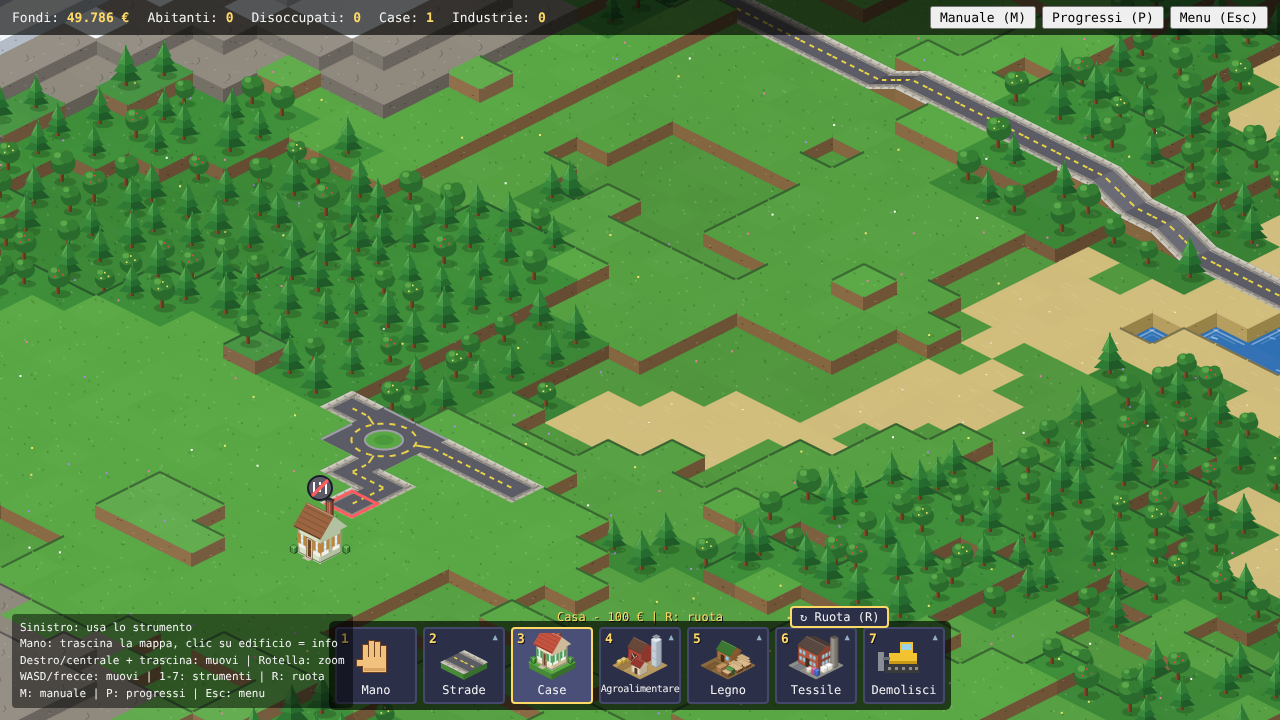
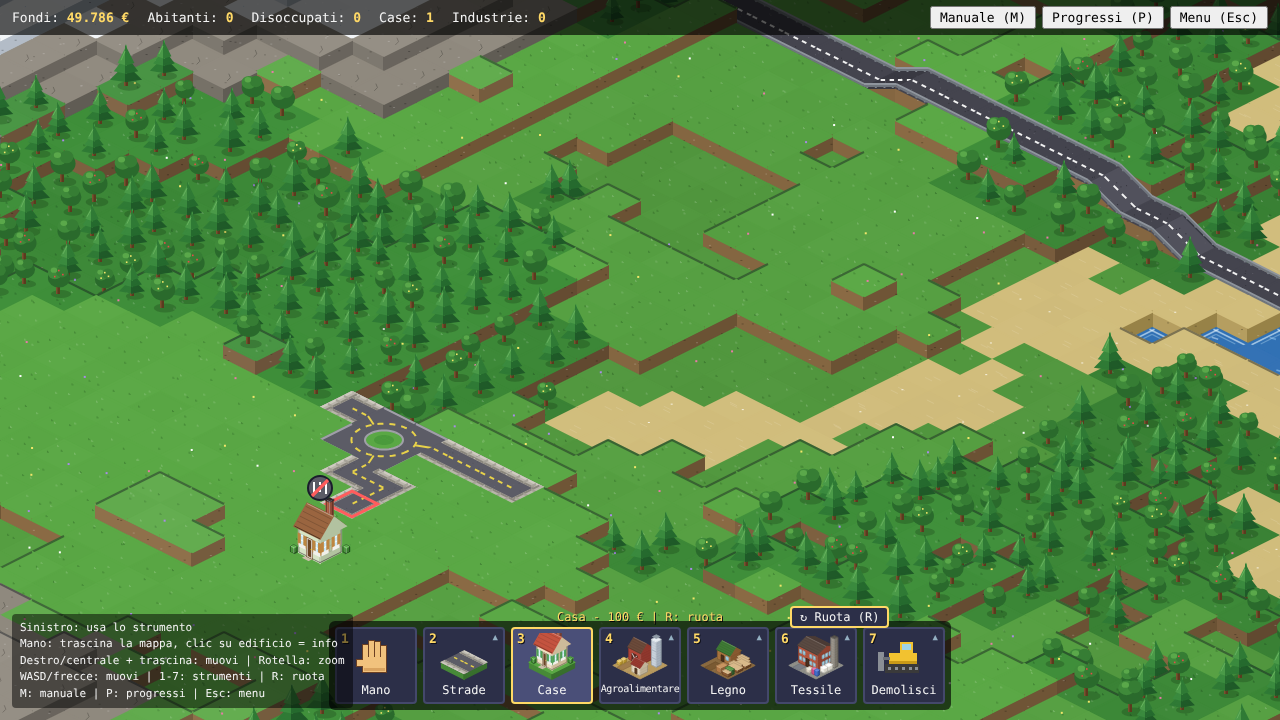
Furgoni: ordine giusto di muso e cassone, striscia dipinta, ruote più piccole; strada principale autostrada
Claude-Session: https://claude.ai/code/session_01EPii4HtPudbMHHXMoA5j75

Changed region(s): [[0.5625, 0.0, 1.0, 0.4278]]

diff --git a/js/vehicles.js b/js/vehicles.js
@@ -419,30 +419,40 @@ function drawVehicle(c, v) {
     const [sx, sy] = iso(0, 0, mx, my, h);
     c.fillStyle = 'rgba(0,0,0,0.2)'; c.beginPath(); c.ellipse(sx, sy + 0.5, (van ? 6 : 5), 2.4, 0, 0, Math.PI * 2); c.fill();
   }
-  // ruote: prima quelle lontane dallo schermo, poi la carrozzeria, poi le vicine
+  // ruote: piccole, appena fuori dalla carrozzeria; prima quelle lontane dallo schermo, poi la
+  // carrozzeria, poi le vicine
   const wheels = [];
-  for (const a of [-L + 0.06, L - 0.06]) for (const w of [-W + 0.01, W - 0.01]) wheels.push(R(a - 0.035, a + 0.035, w - 0.02, w + 0.02));
+  for (const a of [-L + 0.06, L - 0.06]) for (const w of [-W - 0.012, W - 0.004]) wheels.push(R(a - 0.026, a + 0.026, w, w + 0.016));
   const wheelCol = { l: '#2a2a30', r: '#1e1e22', t: '#3a3a40' };
   const far = rc => rc[0] + rc[1] < mx + my;
-  wheels.filter(far).forEach(rc => vbox(rc, 0, 2.4, wheelCol));
+  wheels.filter(far).forEach(rc => vbox(rc, 0, 2, wheelCol));
   const body = v.color || '#d94141', stripe = v.stripe || '#3fa34d';
-  let cabin;
   if (van) {
-    vbox(R(-L, L * 0.3, -W, W), 1, 8.5, { l: '#f2f2f2', r: '#cfd1d4', t: '#ffffff' });                // cassone
-    vbox(R(-L - 0.002, L * 0.3 + 0.002, -W - 0.002, W + 0.002), 4.5, 1.6, { l: stripe, r: shade(stripe, -0.2) });   // striscia
-    vbox(R(L * 0.3, L, -W, W), 1, 4, { l: stripe, r: shade(stripe, -0.25), t: shade(stripe, 0.1) });   // muso
-    cabin = { rc: R(L * 0.3, L * 0.8, -W * 0.92, W * 0.92), z: 5, hp: 3, top: shade(stripe, 0.15) };
+    // cassone dietro, muso con la cabina davanti. Se il muso guarda verso il fondo dello schermo
+    // (marcia verso -u o -v) sta dietro al cassone: va disegnato prima, altrimenti si vede attraverso
+    const cargo = () => {
+      const rc = R(-L, L * 0.3, -W, W);
+      vbox(rc, 1, 8.5, { l: '#f2f2f2', r: '#cfd1d4', t: '#ffffff' });
+      // striscia dipinta sulle due pareti che si vedono (senza coperchio, così non copre il cassone)
+      const P = (u, vv, z) => iso(0, 0, u, vv, h + z / STEP), [u0, v0, u1, v1] = rc;
+      poly(c, [P(u0, v1, 4.5), P(u1, v1, 4.5), P(u1, v1, 6.2), P(u0, v1, 6.2)], stripe);
+      poly(c, [P(u1, v1, 4.5), P(u1, v0, 4.5), P(u1, v0, 6.2), P(u1, v1, 6.2)], shade(stripe, -0.2));
+    };
+    const nose = () => {
+      vbox(R(L * 0.3, L, -W, W), 1, 4, { l: stripe, r: shade(stripe, -0.25), t: shade(stripe, 0.1) });
+      vbox(R(L * 0.3, L * 0.8, -W * 0.92, W * 0.92), 5, 3, { l: '#8fc8e2', r: '#6fa6c2', t: shade(stripe, 0.15) });   // cabina con i vetri
+    };
+    if (d === 1 || d === 2) { cargo(); nose(); } else { nose(); cargo(); }
   } else {
     vbox(R(-L, L, -W, W), 1, 3.6, { l: body, r: shade(body, -0.25), t: shade(body, 0.12) });             // carrozzeria
-    cabin = { rc: R(-L * 0.55, L * 0.35, -W * 0.86, W * 0.86), z: 4.6, hp: 3, top: shade(body, 0.2) };
+    vbox(R(-L * 0.55, L * 0.35, -W * 0.86, W * 0.86), 4.6, 3, { l: '#8fc8e2', r: '#6fa6c2', t: shade(body, 0.2) });   // abitacolo con i vetri
   }
-  vbox(cabin.rc, cabin.z, cabin.hp, { l: '#8fc8e2', r: '#6fa6c2', t: cabin.top });                   // abitacolo con i vetri
-  wheels.filter(rc => !far(rc)).forEach(rc => vbox(rc, 0, 2.4, wheelCol));
+  wheels.filter(rc => !far(rc)).forEach(rc => vbox(rc, 0, 2, wheelCol));
   if (!DETAIL) return;
   // fari: sul muso se guarda verso lo schermo (+u o +v), altrimenti luci rosse sul retro
   const front = d === 1 || d === 2, a = front ? L : -L, col = front ? '#fff3b0' : '#e83a3a';
-  for (const w of [-W * 0.62, W * 0.62]) {
-    const p = iso(0, 0, mx + f.dx * a + sd[0] * w, my + f.dy * a + sd[1] * w, h + 2.6 / STEP);
+  for (const w of [-W * 0.55, W * 0.55]) {
+    const p = iso(0, 0, mx + f.dx * a + sd[0] * w, my + f.dy * a + sd[1] * w, h + 3.2 / STEP);
     c.fillStyle = col; c.fillRect(p[0] - 0.5, p[1] - 0.5, 1, 0.8);
   }
 }

diff --git a/js/roadgen.js b/js/roadgen.js
@@ -1,3 +1,5 @@
+// La strada principale è un'autostrada (scelta dell'utente: le auto vanno più veloci)
+const MAIN_PATH = 'highway';
 // ---------- Strada principale ----------
 // Ogni mappa nuova ha una strada che arriva da un bordo, attraversa l'isola seguendo il
 // terreno ed esce dal bordo opposto. Sull'acqua passa su un ponte (dritto) con i pilastri;
@@ -118,7 +120,7 @@ function generateMainRoad() {
     const t = game.map[y][x];
     if (t.type === T.WATER) { t.type = T.SAND; t.elev = 1; }  // terrapieno (acqua sul bordo della mappa)
     if (t.type === T.FOREST) t.type = T.GRASS;
-    setPath(x, y, 'road');
+    setPath(x, y, MAIN_PATH);
     t.main = true;
   });
   for (const [x, y] of path) if (game.map[y][x].path) fillDips(x, y);
@@ -130,7 +132,7 @@ function generateMainRoad() {
     if (plan.ok) { buildBridge(plan, { free: true, main: true }); continue; }
     for (let k = i; k <= j; k++) {   // il ponte non va: terrapieno di sabbia come prima
       const [x, y] = path[k], t = game.map[y][x];
-      t.type = T.SAND; t.elev = 1; setPath(x, y, 'road'); t.main = true;
+      t.type = T.SAND; t.elev = 1; setPath(x, y, MAIN_PATH); t.main = true;
     }
     updateRoundabouts();
   }

diff --git a/tools/smoke-test.js b/tools/smoke-test.js
@@ -1224,6 +1224,18 @@ function check(cond, msg) {
     }
   }
 
+  // 43. la strada principale di una mappa nuova è un'autostrada (auto più veloci) e resta tale
+  const hw = await page.evaluate(() => {
+    clearVehicles(); __newGame(7, 128); unlockAll();
+    let main = 0, hwy = 0;
+    for (const row of game.map) for (const t of row) if (t.main && t.path) { main++; if (t.path === 'highway') hwy++; }
+    const e = game.entries[0], t = game.map[e.y][e.x];
+    game.convertRoads = true;
+    const keep = !!checkTool('road', e.x, e.y) && t.path === 'highway';
+    return { main, hwy, keep };
+  });
+  check(hw.main > 50 && hw.hwy === hw.main && hw.keep, `strada principale = autostrada (${hw.hwy}/${hw.main} tile), non si declassa`);
+
   check(errors.length === 0, 'nessun errore in console' + (errors.length ? ': ' + errors.join(' | ') : ''));
   await browser.close();
 })();

diff --git a/js/game.js b/js/game.js
@@ -410,6 +410,7 @@ function checkTool(tool, x, y) {
       if (netOf(t.path) !== 'road' || PATHS[tool].net !== 'road') return { msg: "C'è già " + (t.path === 'rail' ? 'un binario' : 'una strada') };
       if (game.convertRoads === false) return { silent: true };   // si passa sopra senza cambiarle
       if (t.main && (PATHS[tool].oneway || tool === 'dirt')) return { msg: 'La strada principale resta a doppio senso e asfaltata' };
+      if (t.main && t.path === 'highway' && tool !== 'highway') return { msg: "La strada principale resta un'autostrada" };
       return null;
     }
     if (bridgeOver(t) && deckMin(bridgeOver(t), t.bridge.i) < t.elev + BRIDGE.clearPath)

diff --git a/js/bridges.js b/js/bridges.js
@@ -176,7 +176,7 @@ function buildBridge(plan, opts) {
   for (const i of [0, b.n]) {   // le teste diventano strada se non lo sono già
     const p = plan.tiles[i], t = game.map[p.y][p.x];
     if (t.field) { t.field = false; t.farm = null; game.fields--; }
-    if (!t.path) { if (t.type === T.FOREST) t.type = T.GRASS; setPath(p.x, p.y, 'road'); game.roads++; if (opts.main) t.main = true; }
+    if (!t.path) { if (t.type === T.FOREST) t.type = T.GRASS; setPath(p.x, p.y, opts.main ? MAIN_PATH : 'road'); game.roads++; if (opts.main) t.main = true; }
   }
   for (let i = 1; i < b.n; i++) {
     const p = plan.tiles[i], t = game.map[p.y][p.x];

diff --git a/CLAUDE.md b/CLAUDE.md
@@ -30,6 +30,7 @@ Gioco city builder isometrico in stile retro, in JavaScript + Canvas 2D, impacch
 
 ## Livellamento e strada principale
 - `fillDips`: lungo una strada dritta, 1 o 2 tile più bassi tra due tile alla stessa quota vengono alzati (scelta dell'utente); con 3 o più bassi restano le rampe (discesa, tratto piano, salita).
+- La strada principale delle mappe nuove è un'autostrada (`MAIN_PATH` in roadgen.js, anche le teste del suo ponte; richiesta dell'utente: auto più veloci). Non si può declassare (`checkTool`); i salvataggi di prima restano com'erano.
 - `generateMainRoad` (in `newGame`): A* con stato (tile, direzione) e le stesse regole delle rampe (si sale solo dritti, dopo una discesa si va dritti); l'acqua diventa terrapieno di sabbia a quota 1; le curve costano di più per avere rettilinei. `game.entries` = le due estremità sul bordo.
 
 ## Abitanti, veicoli, fattorie
@@ -66,7 +67,7 @@ Gioco city builder isometrico in stile retro, in JavaScript + Canvas 2D, impacch
 - Icone delle merci: `GOOD_ICONS` (`drawGoodIcon` in ui.js), usate nei pannelli.
 
 ## Grafica (tutto disegnato nel codice)
-- Case e veicoli sono disegnati nel codice con `box` / `gableRoof` come magazzino e altri edifici (scelta dell'utente: stesso stile per tutto, niente sprite separati). `drawHouse(c, x, y, base, variant, rot)`: colori da `HOUSE_STYLES` (`l, r, roof, back, shutter`), un piano o due (`hash(x,y,42) > 0.6`), porta sul lato della rotazione, finestre con persiane solo sulle facce visibili, comignolo disegnato con il callback `mid` di `gableRoof(..., alongV, mid)` (tra la falda dietro e quella davanti), vialetto e cespugli. `drawVehicle` (vehicles.js): ombra, ruote dietro prima e davanti dopo la scocca, auto = scocca + abitacolo di vetro, furgone = cassone bianco con striscia; fari davanti / luci rosse dietro secondo `vehicleDir(v)`.
+- Case e veicoli sono disegnati nel codice con `box` / `gableRoof` come magazzino e altri edifici (scelta dell'utente: stesso stile per tutto, niente sprite separati). `drawHouse(c, x, y, base, variant, rot)`: colori da `HOUSE_STYLES` (`l, r, roof, back, shutter`), un piano o due (`hash(x,y,42) > 0.6`), porta sul lato della rotazione, finestre con persiane solo sulle facce visibili, comignolo disegnato con il callback `mid` di `gableRoof(..., alongV, mid)` (tra la falda dietro e quella davanti), vialetto e cespugli. `drawVehicle` (vehicles.js): ombra, ruote dietro prima e davanti dopo la scocca, auto = scocca + abitacolo di vetro, furgone = cassone bianco con striscia; fari davanti / luci rosse dietro secondo `vehicleDir(v)`. Furgone: se marcia verso -u/-v (d 0 o 3) muso e cabina stanno dietro al cassone e si disegnano prima (prima si vedevano attraverso); la striscia è dipinta sulle due pareti visibili (niente scatola con coperchio). Controllo: furgoni e auto nelle 4 direzioni ingranditi.
 - Case a due piani in pausa (scelta dell'utente): `TALL_HOUSES = false` in render.js; con true tornano (hash del tile > 0.6).
 - Autostrada: niente strisce bianche di bordo e guardrail grigio metallo (l'utente non voleva la linea bianca sul bordo); restano tratteggio centrale e guardrail sui lati senza strada.
 - Il sistema degli sprite resta ma è vuoto: `tools/sprites/build.js` ha `SHEETS = {}` (dentro c'è scritto come rimettere house.png e vehicles.png), `js/sprite-data.js` è generato vuoto, `js/sprites.js` (`drawSprite`, `tintedSprite`) non è usato. `tools/sprites/house.py` e `vehicles.py` restano come prova di pixel art.
